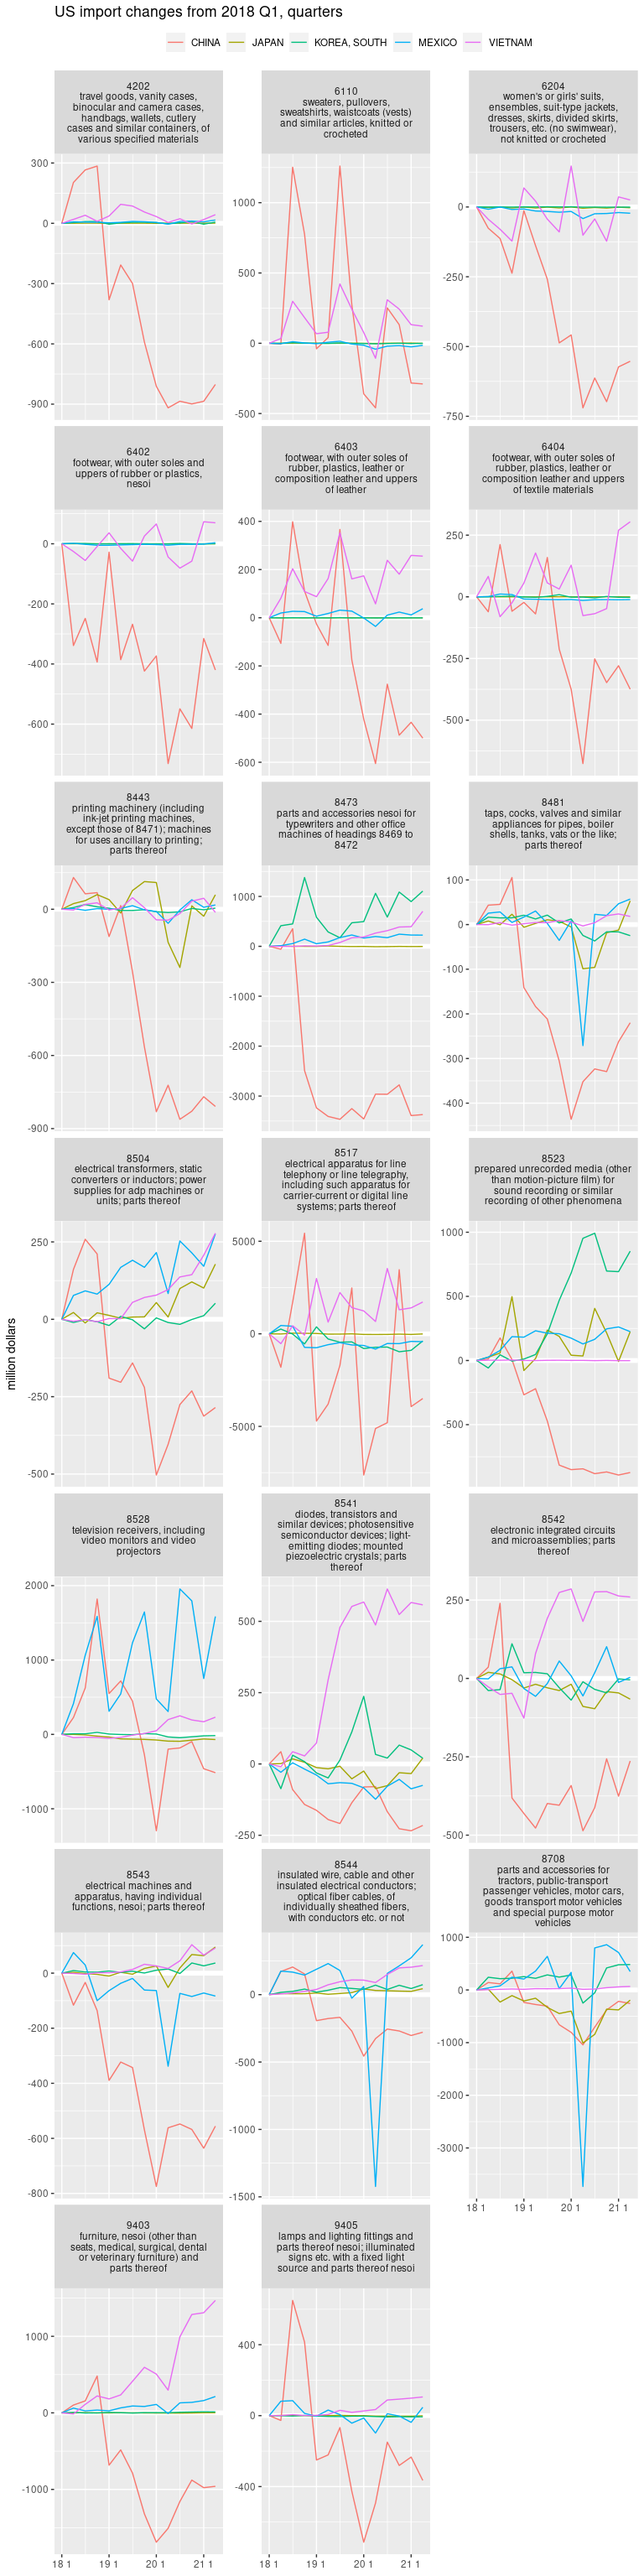
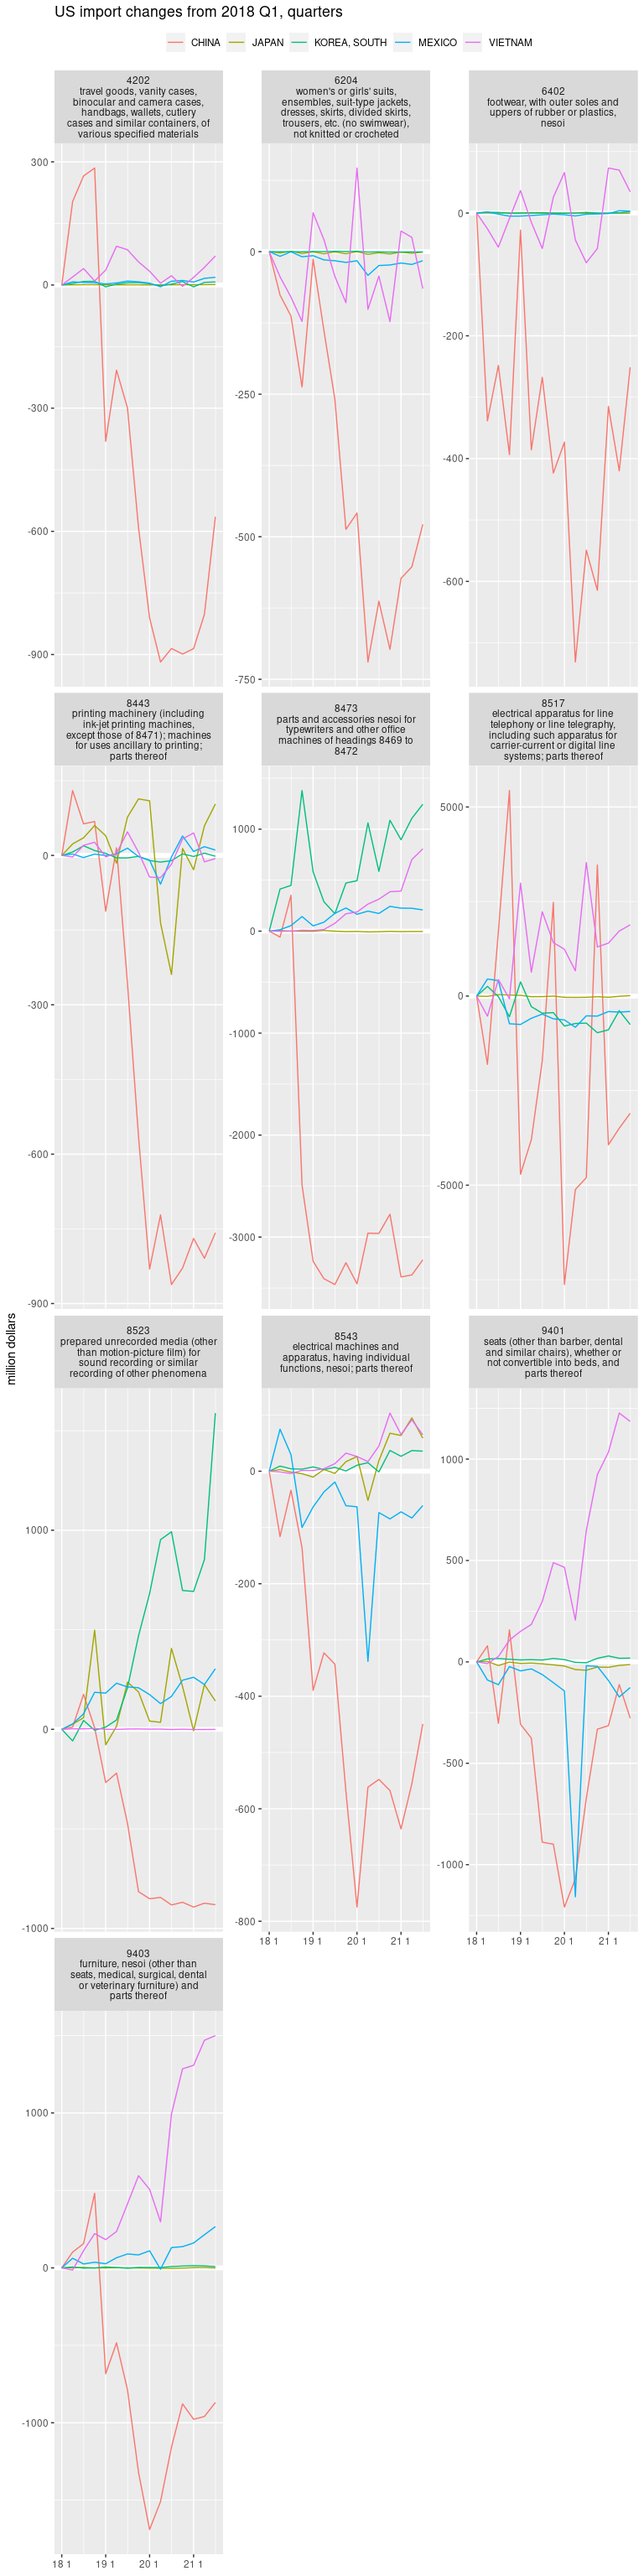
update September 2021 trade, and change census api key supply method

diff --git a/README.md b/README.md
@@ -14,7 +14,7 @@ Mitsuo Shiota
 -   [Look at the Chinese share
     movements](#look-at-the-chinese-share-movements)
 
-Updated: 2021-10-09
+Updated: 2021-11-05
 
 I separated the codes of extracting HTS from USTR site to [another
 page](Extract-hts-from-USTR.md).
@@ -44,9 +44,18 @@ draw a boxplot of Chinese shares in HTS 10 digit imports in 2018.
 
 ## Libraries and functions
 
-As usual, I attach tidyverse package. Although I don’t attach, I use
-keyring package to input API Key. As I have found censusapi package
+As usual, I attach tidyverse package. As I have found censusapi package
 works, I use it.
+
+Following the recommendation in [Internatinal Trade Data API User
+Guide](https://www.census.gov/foreign-trade/reference/guides/Guide%20to%20International%20Trade%20Datasets.pdf)
+provided by the US Census Bureau, I register API Key. I have added a
+line CENSUS\_API\_KEY=xxxx to my .Renviron file, and I recall it by
+`Sys.getenv("CENSUS_API_KEY")`.
+
+``` r
+census_api_key <- Sys.getenv("CENSUS_API_KEY")
+```
 
 I make functions to facilitate data transformation and acquisition.
 
@@ -63,11 +72,6 @@ df_list_excl <- tibble(
 ```
 
 ## Get international trade data, and confirm USTR claims
-
-Following the recommendation in [Internatinal Trade Data API User
-Guide](https://www.census.gov/foreign-trade/reference/guides/Guide%20to%20International%20Trade%20Datasets.pdf)
-provided by the US Census Bureau, I register API Key. keyring package
-allows me to input API Key, and use it, without making it public.
 
 I struggle with which table I should use, and reach [this
 page](https://www.census.gov/data/developers/data-sets/international-trade.html).

diff --git a/Trade-diversion.md b/Trade-diversion.md
@@ -12,7 +12,7 @@ Mitsuo Shiota
 -   [Draw charts of US import changes from 2018 Q1 from each
     country](#draw-charts-of-us-import-changes-from-2018-q1-from-each-country)
 
-Updated: 2021-08-07
+Updated: 2021-11-05
 
 ## Summary
 
@@ -44,15 +44,9 @@ imports from China are still more than 500 million dollars.
 For the goods descriptions of HS codes, I refer to
 <https://dataweb.usitc.gov/classification/commodity-description/HTS/4>.
 
-Most notable case is that Vietnam replaces China as a main export base
-of 8541 (Diodes, transistors) and 8542 (Integrated circuits).
+Vietnam is replacing China in 8517 (electrical apparatus for line telephony), 9401 (Seats) and 9403 (Other furniture).
 
-Vietnam is also advancing in 9401 (Seats) and 9403 (Other furniture).
-
-South Korea supplants China in 8415 (Air conditioning machines) and 8523
-(Recording medium).
-
-No winners in 8708 (Auto parts).
+South Korea supplants China in 8523 (Recording medium).
 
 ![](Trade-diversion_files/figure-gfm/draw_charts-1.png)<!-- -->
 
